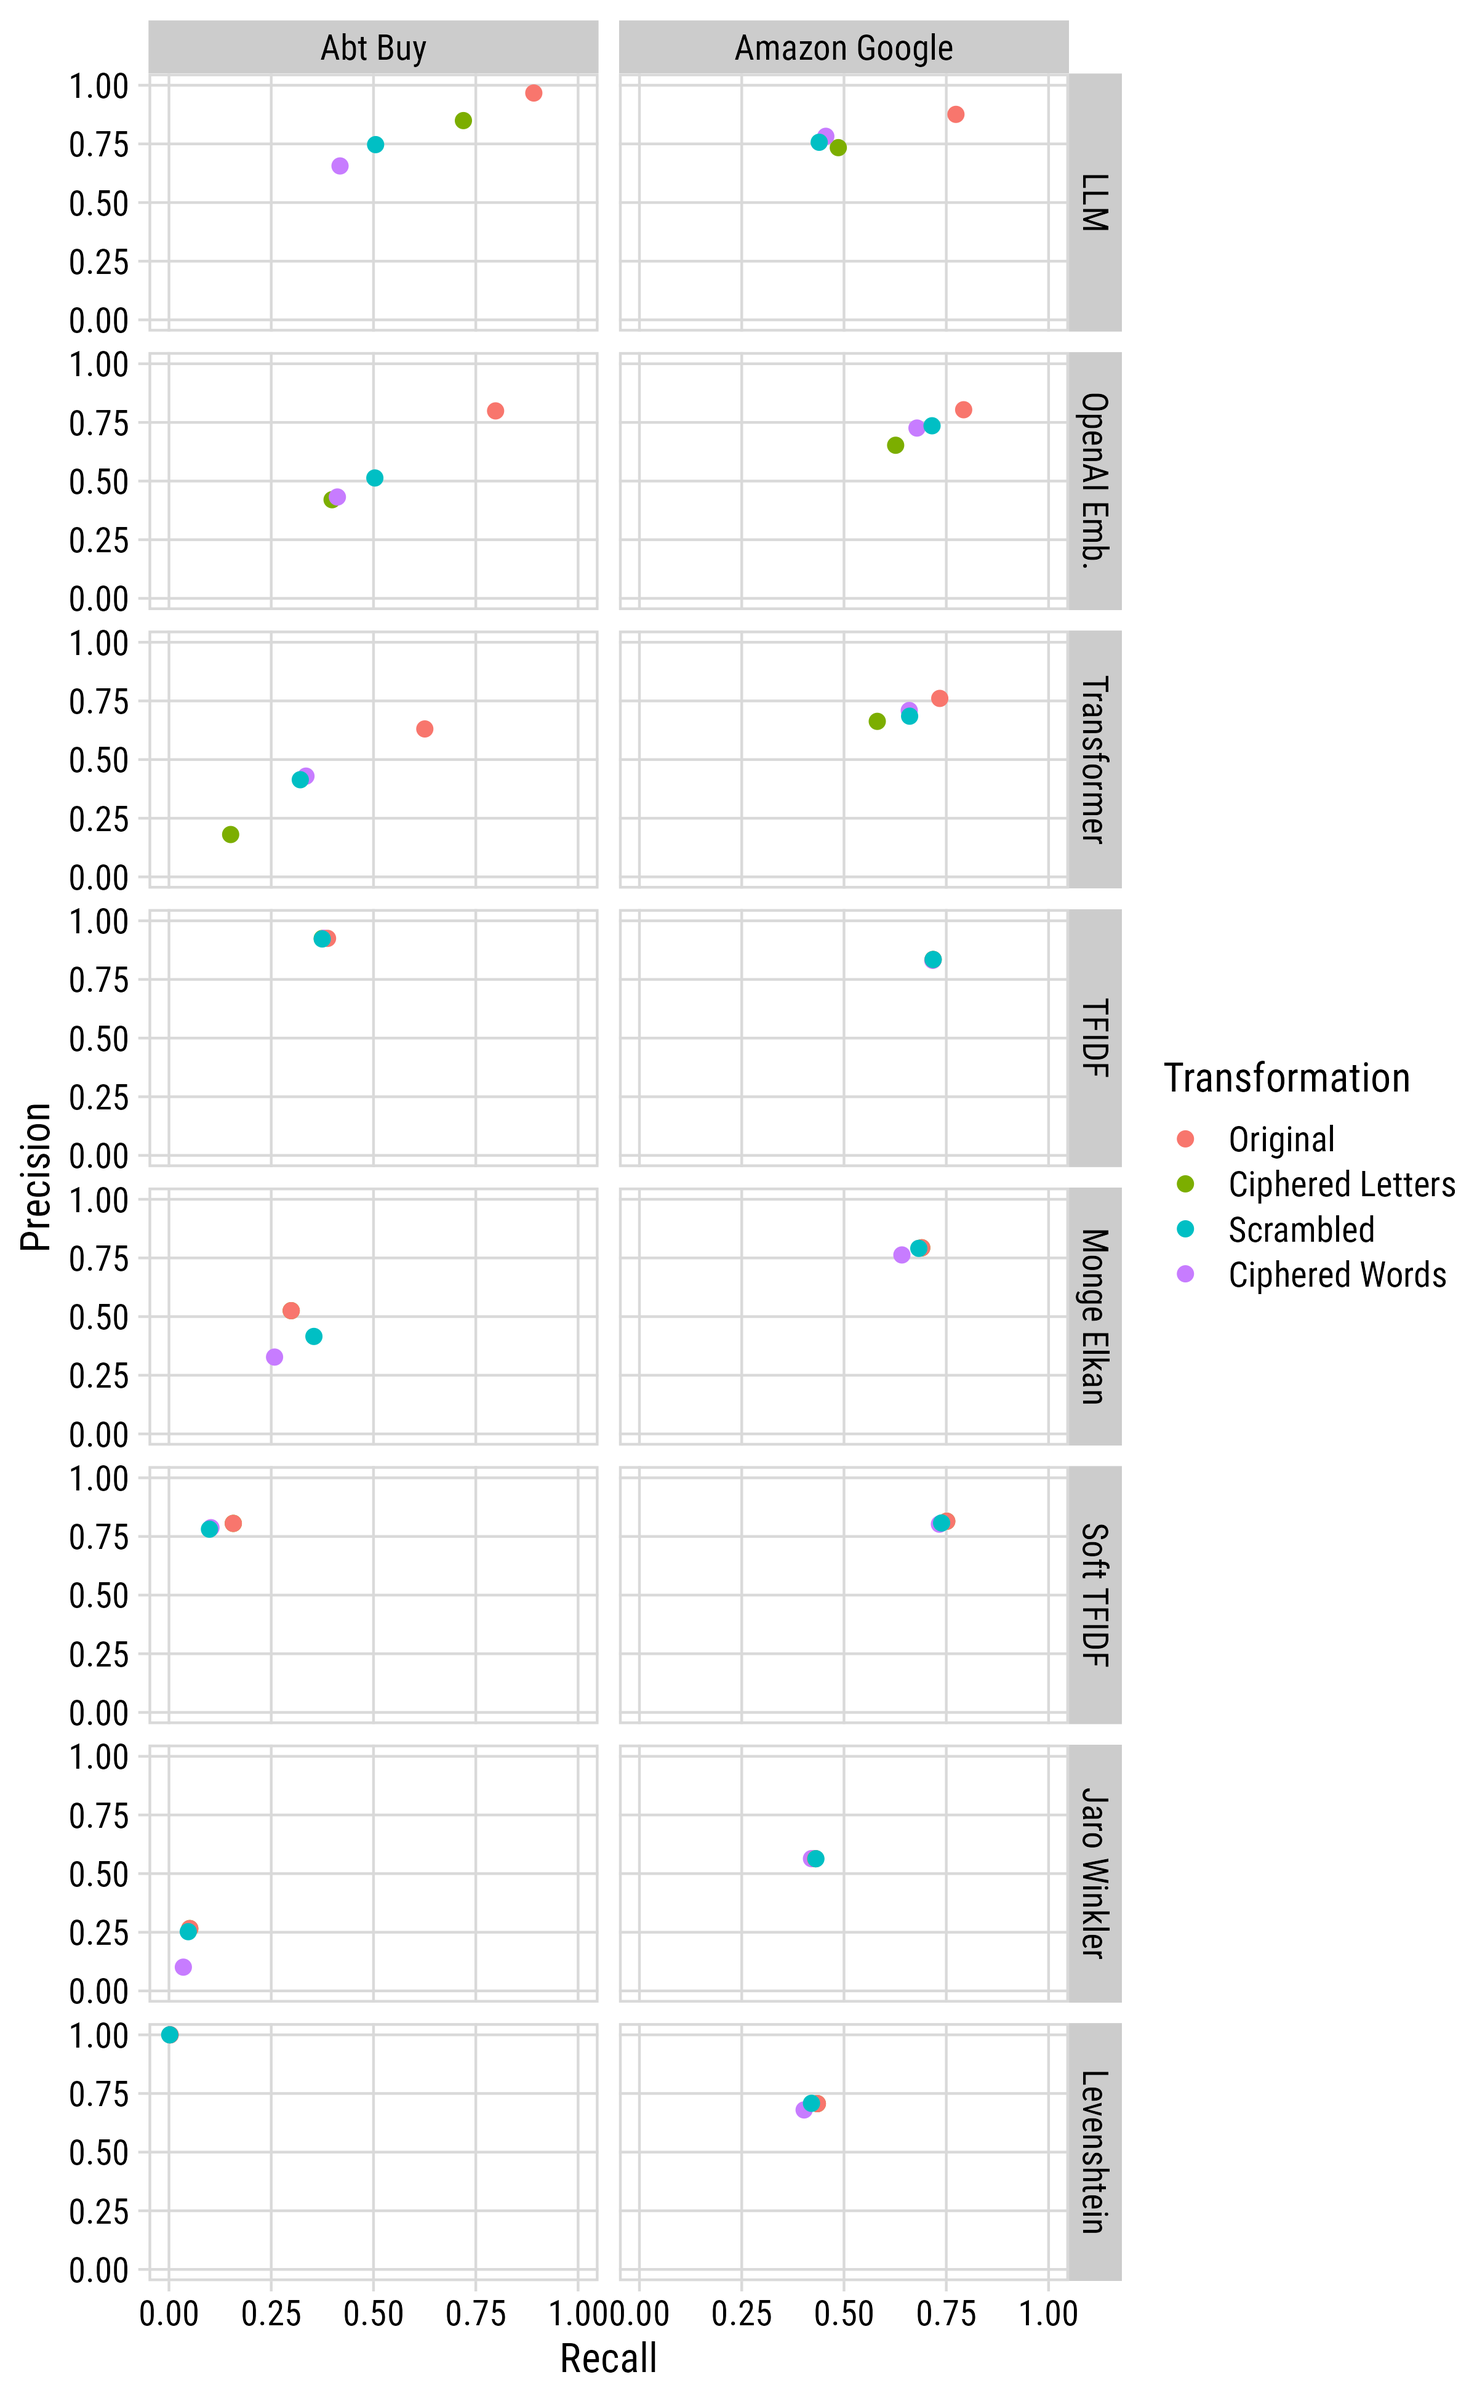
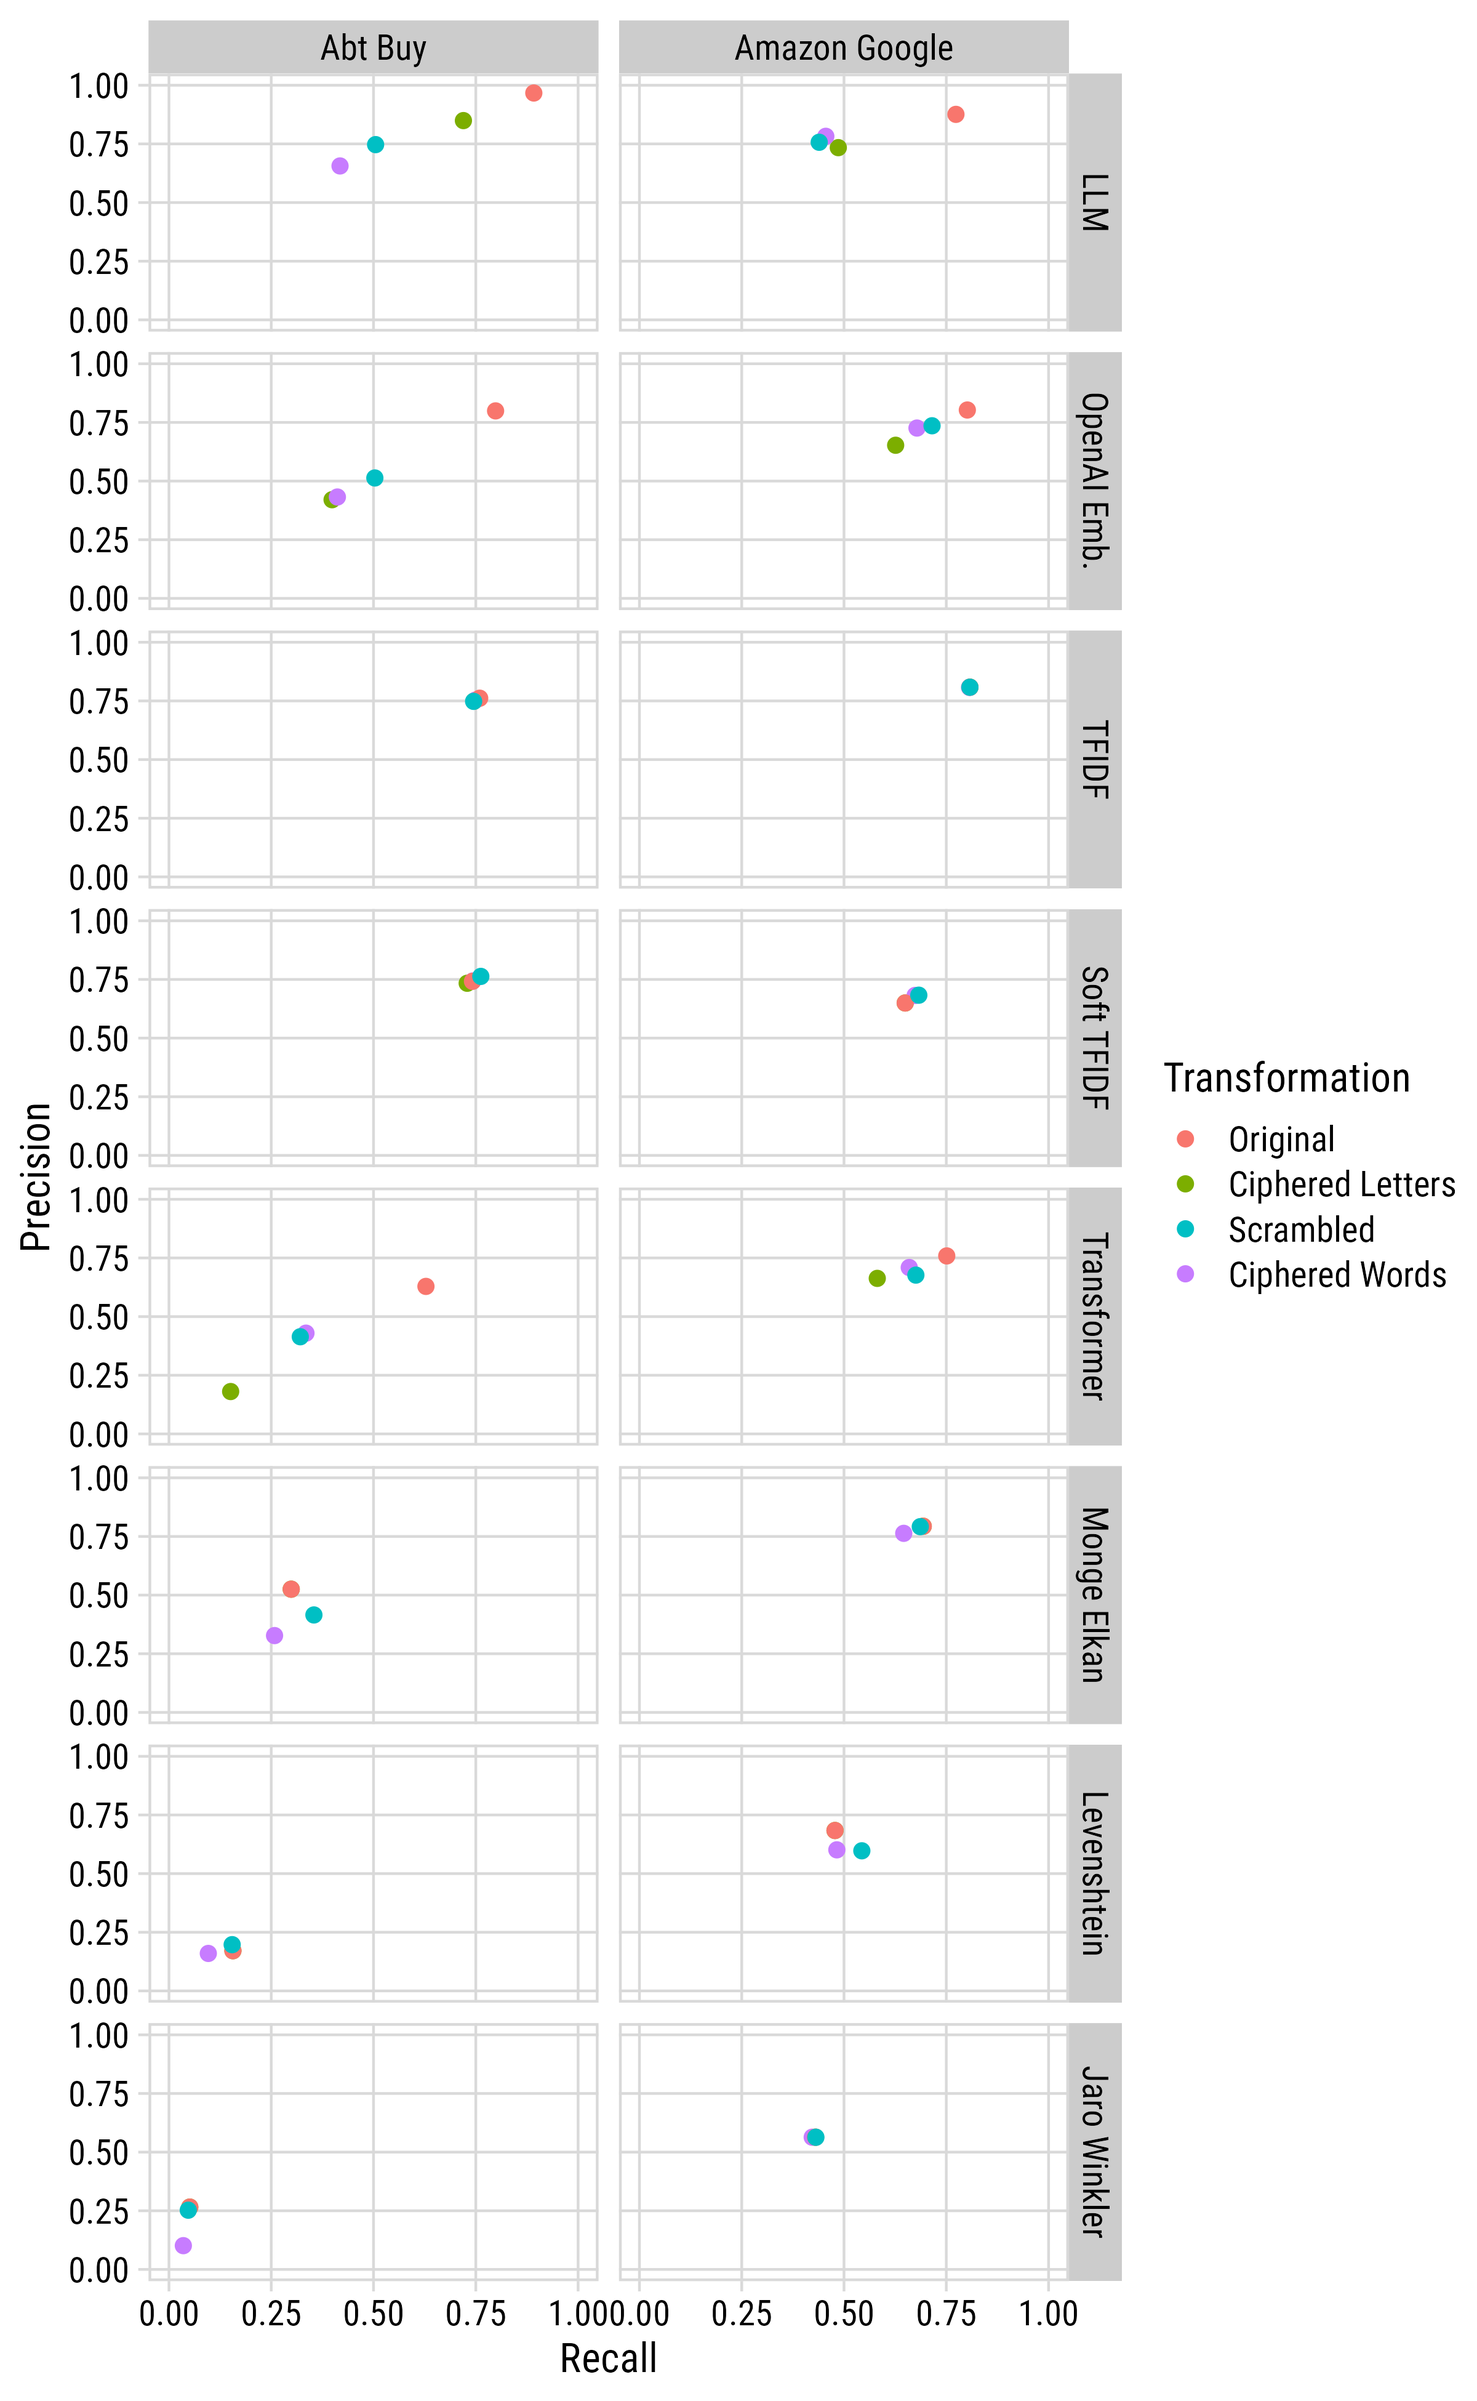
improvements

diff --git a/scripts/methods.py b/scripts/methods.py
@@ -96,8 +96,9 @@ def prepare_text_column(df, text_cols=None, title_only=False):
             # Skip first column (ID) and non-text columns
             for col in df.columns[1:]:
                 if col in df.columns:
-                    # Include object type columns, exclude numeric/irrelevant ones
-                    if df[col].dtype == 'object' and col.lower() not in ['year', 'price', 'id']:
+                    # Include string/object columns, exclude numeric/irrelevant ones
+                    # (newer pandas reports text columns as 'str' rather than 'object')
+                    if pd.api.types.is_string_dtype(df[col]) and col.lower() not in ['year', 'price', 'id']:
                         text_cols.append(col)
             
             print(f"  Auto-detected text columns: {text_cols}")
@@ -194,18 +195,25 @@ def monge_elkan_similarity(str1, str2):
     return sum_best / len(tokens_a)
 
 def soft_tfidf_similarity(str1, str2, theta=0.9):
+    """DEPRECATED: fuzzy token overlap WITHOUT TF/IDF weighting.
+
+    This is NOT Soft TF-IDF (Cohen et al. 2003): it has no term weighting,
+    so it is really a thresholded Monge-Elkan. Kept only for reference.
+    The experiments use soft_tfidf() below, which implements the real
+    IDF-weighted Soft TF-IDF. Do not use this for the paper.
+    """
     tokens_a = str1.split()
     tokens_b = str2.split()
-    
+
     if len(tokens_a) == 0 or len(tokens_b) == 0:
         return 0.0
-    
+
     score = 0.0
     for token_a in tokens_a:
         best_match = max([jaro_winkler_similarity(token_a, token_b) for token_b in tokens_b])
         if best_match >= theta:
             score += best_match
-    
+
     return score / len(tokens_a) if len(tokens_a) > 0 else 0.0
 
 # =============================================================================
@@ -272,7 +280,7 @@ def find_best_threshold_with_details(df_left, df_right, similarity_func, true_ma
         })
     
     # Optimize threshold
-    thresholds = np.arange(0.50, 0.96, 0.05)
+    thresholds = np.arange(0.05, 0.96, 0.05)  # full grid; cosine/edit matches score well below 0.5
     best_threshold = 0.5
     best_f1 = 0.0
     
@@ -346,9 +354,107 @@ def monge_elkan(df_left, df_right, df_mapping):
     return string_distance_method(df_left, df_right, df_mapping,
                                   monge_elkan_similarity, "Monge-Elkan")
 
+def _fuzzy_token_matrix(vocab, theta=0.9):
+    """Sparse VxV Jaro-Winkler similarity matrix for token pairs with JW >= theta
+    (diagonal excluded). Prefix-bucketed for speed (JW>=0.9 implies a shared prefix)."""
+    from collections import defaultdict
+    from scipy.sparse import csr_matrix
+    buckets = defaultdict(list)
+    for i, w in enumerate(vocab):
+        buckets[w[0] if w else ""].append(i)
+    rows, cols, vals = [], [], []
+    for idxs in buckets.values():
+        for a in range(len(idxs)):
+            i = idxs[a]; wi = vocab[i]
+            for b in range(a + 1, len(idxs)):
+                j = idxs[b]; wj = vocab[j]
+                if abs(len(wi) - len(wj)) > 3:
+                    continue
+                s = jaro_winkler_similarity(wi, wj)
+                if s >= theta:
+                    rows += [i, j]; cols += [j, i]; vals += [s, s]
+    return csr_matrix((vals, (rows, cols)), shape=(len(vocab), len(vocab)))
+
 def soft_tfidf(df_left, df_right, df_mapping):
-    return string_distance_method(df_left, df_right, df_mapping,
-                                  soft_tfidf_similarity, "Soft-TF-IDF")
+    """Real Soft TF-IDF (Cohen et al. 2003): L2-normalized TF-IDF token weights with
+    Jaro-Winkler fuzzy token matching (theta=0.9). Computed as the bilinear form
+    score = L (I + M) R^T, where M holds fuzzy inter-token similarities. With theta=0.9
+    a token has at most ~1 fuzzy partner, so this matches Cohen's max-based definition."""
+    print("\n🔍 Running Soft TF-IDF (IDF-weighted, Jaro-Winkler fuzzy match)...")
+    import numpy as np
+    from scipy.sparse import identity
+
+    df_left = prepare_text_column(df_left.copy(), title_only=TITLE_ONLY_MODE)
+    df_right = prepare_text_column(df_right.copy(), title_only=TITLE_ONLY_MODE)
+
+    id_col_left = df_left.columns[0]
+    id_col_right = df_right.columns[0]
+    name_col_left = get_display_column(df_left)
+    name_col_right = get_display_column(df_right)
+
+    true_matches = create_ground_truth_set(df_mapping)
+    has_truth = {}
+    for (la, rb) in true_matches:
+        has_truth[la] = True
+
+    vectorizer = TfidfVectorizer(norm="l2")
+    vectorizer.fit(pd.concat([df_left['text'], df_right['text']]))
+    vocab = vectorizer.get_feature_names_out()
+    left_m = vectorizer.transform(df_left['text'])
+    right_m = vectorizer.transform(df_right['text'])
+
+    print(f"Building fuzzy token matrix over {len(vocab):,} terms...")
+    M = _fuzzy_token_matrix(vocab)
+    I = identity(len(vocab), format="csr")
+    print("Computing Soft TF-IDF score matrix...")
+    similarity_matrix = np.asarray((left_m @ (I + M) @ right_m.T).todense())
+
+    all_matches = []
+    for idx_a in tqdm(range(len(df_left)), desc="Soft TF-IDF matching"):
+        id_a = str(df_left.iloc[idx_a][id_col_left])
+        name_a = df_left.iloc[idx_a][name_col_left]
+        true_matches_for_a = [r for (l, r) in true_matches if l == id_a]
+        true_id_b = true_matches_for_a[0] if true_matches_for_a else None
+        best_idx_b = int(np.argmax(similarity_matrix[idx_a]))
+        best_sim = float(similarity_matrix[idx_a, best_idx_b])
+        all_matches.append({
+            'id_left': id_a,
+            'left_name': name_a,
+            'true_id_right': true_id_b if true_id_b else '',
+            'pred_id_right': str(df_right.iloc[best_idx_b][id_col_right]),
+            'pred_right_name': df_right.iloc[best_idx_b][name_col_right],
+            'similarity_score': best_sim
+        })
+
+    print("\nOptimizing threshold...")
+    thresholds = np.arange(0.05, 0.96, 0.05)  # full grid; cosine/edit matches score well below 0.5
+    best_threshold, best_f1 = 0.5, 0.0
+    for threshold in thresholds:
+        tp = fp = fn = 0
+        for match in all_matches:
+            pred_match = match['similarity_score'] >= threshold
+            true_match = (match['id_left'], match['pred_id_right']) in true_matches
+            left_has_truth = has_truth.get(match['id_left'], False)
+            if pred_match and true_match:
+                tp += 1
+            elif pred_match and not true_match:
+                fp += 1
+            if left_has_truth and not (pred_match and true_match):
+                fn += 1
+        precision = tp / (tp + fp) if (tp + fp) > 0 else 0.0
+        recall = tp / (tp + fn) if (tp + fn) > 0 else 0.0
+        f1 = 2 * precision * recall / (precision + recall) if (precision + recall) > 0 else 0.0
+        if f1 > best_f1:
+            best_f1, best_threshold = f1, threshold
+    print(f"\nBest threshold: {best_threshold:.2f} (F1={best_f1:.3f})")
+
+    for match in all_matches:
+        pred_match = match['similarity_score'] >= best_threshold
+        true_match = (match['id_left'], match['pred_id_right']) in true_matches
+        match['predicted_match'] = 1 if pred_match else 0
+        match['is_correct'] = int(pred_match and true_match)
+
+    return pd.DataFrame(all_matches)
 
 # =============================================================================
 # TF-IDF
@@ -410,7 +516,7 @@ def tfidf(df_left, df_right, df_mapping):
     
     # Optimize threshold
     print("\nOptimizing threshold...")
-    thresholds = np.arange(0.50, 0.96, 0.05)
+    thresholds = np.arange(0.05, 0.96, 0.05)  # full grid; cosine/edit matches score well below 0.5
     best_threshold = 0.5
     best_f1 = 0.0
     
@@ -507,7 +613,7 @@ def sentence_transformer(df_left, df_right, df_mapping):
     
     # Optimize threshold (same as TF-IDF)
     print("\nOptimizing threshold...")
-    thresholds = np.arange(0.50, 0.96, 0.05)
+    thresholds = np.arange(0.05, 0.96, 0.05)  # full grid; cosine/edit matches score well below 0.5
     best_threshold = 0.5
     best_f1 = 0.0
     
@@ -619,7 +725,7 @@ def openai_embeddings(df_left, df_right, df_mapping):
     
     # Optimize threshold
     print("\nOptimizing threshold...")
-    thresholds = np.arange(0.50, 0.96, 0.05)
+    thresholds = np.arange(0.05, 0.96, 0.05)  # full grid; cosine/edit matches score well below 0.5
     best_threshold = 0.5
     best_f1 = 0.0
     
@@ -880,7 +986,7 @@ def llm(df_left, df_right, df_mapping):
     
     # Optimize confidence threshold
     print("\nOptimizing confidence threshold...")
-    thresholds = np.arange(0.50, 0.96, 0.05)
+    thresholds = np.arange(0.05, 0.96, 0.05)  # full grid; cosine/edit matches score well below 0.5
     best_threshold = 0.5
     best_f1 = 0.0
     

diff --git a/scripts/diagnose_blocking.py b/scripts/diagnose_blocking.py
@@ -21,7 +21,8 @@ def prepare_text(df):
     """Prepare text column by concatenating and normalizing"""
     text_cols = []
     for col in df.columns[1:]:  # Skip ID column
-        if df[col].dtype == 'object':
+        # newer pandas reports text columns as 'str' rather than 'object'
+        if pd.api.types.is_string_dtype(df[col]):
             text_cols.append(col)
     
     df['text'] = df[text_cols].fillna('').agg(' '.join, axis=1)

diff --git a/README.md b/README.md
@@ -6,28 +6,40 @@
 
 ##  Research Question
 
-**How do different entity matching techniques perform under systematically degraded text conditions**
+**Does an LLM entity matcher rely on the features that actually distinguish entities, or on semantic priors the task does not require?**
 
-We evaluate methods on:
-1. **Original data** - Baseline performance
-2. **Ciphered letters** - Consistent character substitution (e.g., 'a'→'x', 'b'→'y')
-3. **Ciphered words** - Vocabulary replacement (e.g., 'Sony'→'Bear')
-4. **Scrambled letters** - Letters shuffled within words (e.g., 'Sony'→'nSyo')
+We use *controlled semantic ablation*: structure-preserving transformations that remove meaning while keeping the discriminative tokens (and their cross-catalog identity) fully intact. If a method depends only on token distinctiveness, it should be unaffected; if it depends on meaning, it should collapse.
+
+1. **Original** - Baseline
+2. **Ciphered letters** - Consistent character substitution applied to both catalogs (e.g., 'a'→'x'). Preserves token identity exactly.
+3. **Ciphered words** - Consistent vocabulary replacement (e.g., 'Sony'→'Goat' in both catalogs).
+4. **Scrambled** - Deterministic per-word letter scrambling (first/last letter kept), identical across catalogs.
 
 ---
 
 ##  Key Findings
 
-### **Best Method: LLM (GPT-4o-mini) + TF-IDF Blocking** compared to the next best method
+**The LLM's clean-text advantage depends on semantic content the task does not require.** Once token-based methods are properly thresholded, the LLM's edge on clean data is modest (Abt-Buy) or negligible (Amazon-Google), and under ablation the LLM collapses while token methods stay flat.
 
-| Transformation       | LLM F1    | OpenAI Embeddings (F1)| Improvement |
-|----------------------|-----------|-----------------------|-------------|
-| **Original**         | **0.928** | 0.799                 | **+16%**    |
-| **Ciphered Letters** | **0.779** | 0.409                 | **+90%**    |
-| **Scrambled**        | **0.603** | 0.508                 | **+19%**    |  
-| **Ciphered Words**   | **0.511** | 0.422                 | **+21%**    |
+**Abt-Buy F1:**
+| Transformation | LLM | TF-IDF | Soft TF-IDF |
+|---|---|---|---|
+| Original | **0.928** | 0.761 | 0.742 |
+| Ciphered Letters | 0.779 | 0.747 | 0.731 |
+| Ciphered Words | 0.511 | **0.751** | 0.743 |
+| Scrambled | 0.603 | 0.746 | **0.763** |
 
-**Key Insight:** LLMs maintain semantic understanding even under adversarial transformations, outperforming pure embedding methods by 90% on ciphered data.
+**Amazon-Google F1:**
+| Transformation | LLM | TF-IDF |
+|---|---|---|
+| Original | **0.822** | 0.808 |
+| Ciphered Letters | 0.585 | **0.808** |
+| Ciphered Words | 0.576 | **0.807** |
+| Scrambled | 0.556 | **0.808** |
+
+**Key insight:** TF-IDF blocking keeps the true match in the candidate set for ~99% of records *even under corruption*, and a purely lexical scorer still solves those cases — yet the LLM cannot. The matching evidence is present and preserved; the LLM fails because it relies on meaning the task does not require.
+
+> **Note on results:** earlier versions of this repo reported lower TF-IDF/Soft TF-IDF F1 because (a) the threshold sweep started at 0.50, which is above the optimal operating point for cosine/edit-distance methods, and (b) the "Soft TF-IDF" method lacked IDF weighting. Both are fixed (`scripts/methods.py`); the threshold sweep now runs the full 0.05–0.95 grid and Soft TF-IDF is the real IDF-weighted, Jaro-Winkler version. The previous `summary.csv` is preserved as `summary_OLD_threshold0.50_brokenSoftTFIDF.csv`.
 
 ---
 
